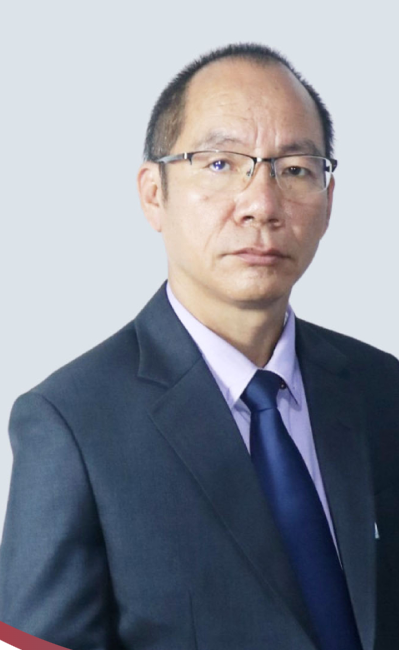
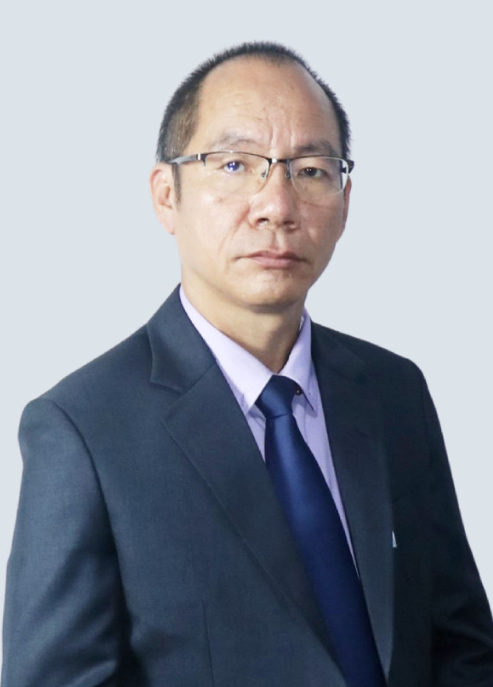
Update UI and Reponsiveness

diff --git a/Babylon-School-Frontend/Frontend_Project/src/styles/typography.css b/Babylon-School-Frontend/Frontend_Project/src/styles/typography.css
@@ -1,0 +1,161 @@
+/* Shared public-site type scale. Keep fonts and colours in their components;
+   use the same proportions on the homepage, listings and detail pages.
+   Size overrides are intentional: older page CSS and mobile rules use both
+   inline sizes and !important. Admin screens are outside .public-site. */
+.public-site {
+  --type-hero: clamp(1.75rem, 1.5rem + 0.75vw, 2rem);
+  --type-page: clamp(1.75rem, 1.5rem + 1vw, 2.25rem);
+  --type-section: clamp(1.5rem, 1.3rem + 0.8vw, 1.75rem);
+  --type-subheading: clamp(1.25rem, 1.125rem + 0.35vw, 1.375rem);
+  --type-card: clamp(1.125rem, 1.05rem + 0.3vw, 1.25rem);
+  --type-label: clamp(1rem, 0.95rem + 0.25vw, 1.125rem);
+  --type-body: 1rem;
+  --type-small: 0.875rem;
+  font-size: var(--type-body);
+  line-height: 1.7;
+}
+
+.public-site h1 {
+  font-size: var(--type-page) !important;
+  line-height: 1.2;
+  letter-spacing: -0.02em;
+}
+
+.public-site .hero h1 {
+  font-size: var(--type-hero) !important;
+  line-height: 1.25;
+}
+
+.public-site h2 {
+  font-size: var(--type-section) !important;
+  line-height: 1.3;
+  letter-spacing: -0.015em;
+}
+
+.public-site h3 {
+  font-size: var(--type-card) !important;
+  line-height: 1.4;
+}
+
+.public-site :is(h4, h5, h6) {
+  font-size: 1.125rem !important;
+  line-height: 1.4;
+}
+
+.public-site :is(h1, h2, h3, h4, h5, h6) {
+  text-wrap: balance;
+  overflow-wrap: anywhere;
+}
+
+/* Section labels in each of the existing heading treatments. */
+.public-site :is(
+  .eyebrow,
+  .section-badge,
+  .hero-badge,
+  .achievements-badge,
+  .facility-detail-eyebrow
+) {
+  font-size: var(--type-label) !important;
+  font-weight: 700;
+  line-height: 1.5;
+  letter-spacing: 0.08em;
+  margin-bottom: 0.75rem;
+  text-wrap: balance;
+}
+
+/* Content subheadings sit between a section title and its body copy. */
+.public-site :is(.article-copy, .rich-text) h2,
+.public-site :is(.blog-featured-title, .eca-entry-title, .testimonial-question) {
+  font-size: var(--type-subheading) !important;
+  line-height: 1.35;
+}
+
+.public-site :is(p, li),
+.public-site :is(
+  .rich-text,
+  .home-about-lead,
+  .home-about-desc,
+  .section-description,
+  .section-subtitle,
+  .hero-description,
+  .hero-subtitle,
+  .achievements-subtitle,
+  .leadership-text,
+  .about-hero-lead,
+  .admissions-lead,
+  .testimonial-message
+) {
+  font-size: var(--type-body);
+  line-height: 1.7;
+}
+
+.public-site :is(.pillar-info, .program-card-content, .blog-card-content) p {
+  font-size: var(--type-body);
+  line-height: 1.65;
+}
+
+.public-site :is(.leadership-body blockquote, .testimonial-message) {
+  font-size: clamp(1rem, 0.95rem + 0.25vw, 1.125rem);
+  line-height: 1.7;
+}
+
+/* Metadata remains secondary without using the tiny section-label sizes. */
+.public-site :is(
+  .content-cards .eyebrow,
+  .program-level,
+  .blog-card-category,
+  .blog-card-meta,
+  .blog-featured-meta,
+  .testimonial-role,
+  .leadership-meta span,
+  .page-banner a,
+  .page-banner .shell > span,
+  .badge-text,
+  .stat-label
+) {
+  font-size: var(--type-small) !important;
+  line-height: 1.5;
+  letter-spacing: 0.03em;
+}
+
+.public-site :is(.button, .text-link, .faq-grid summary, .about-faq summary) {
+  font-size: var(--type-body);
+  line-height: 1.5;
+}
+
+.public-site form :is(label, input, select, textarea, button) {
+  font-size: var(--type-body);
+}
+
+.public-site .admissions-fieldset legend {
+  font-size: var(--type-small);
+  line-height: 1.5;
+  letter-spacing: 0.06em;
+}
+
+/* Allow the larger, readable label to wrap without clipping the hero's
+   content or call-to-action buttons on narrow screens or at browser zoom. */
+.public-site .hero {
+  height: auto;
+  min-height: 580px;
+}
+
+.public-site .hero-content {
+  padding-bottom: 3rem;
+}
+
+.public-site .page-banner {
+  padding-block: 3rem;
+}
+
+@media (max-width: 768px) {
+  .public-site .hero {
+    min-height: 480px;
+  }
+}
+
+@media (max-width: 600px) {
+  .public-site .hero {
+    min-height: 460px;
+  }
+}

diff --git a/Babylon-School-Frontend/Frontend_Project/src/App.css b/Babylon-School-Frontend/Frontend_Project/src/App.css
@@ -23,7 +23,7 @@ img {
 
 html {
   scroll-behavior: smooth;
-  font-size: 16px;
+  font-size: 100%;
   overflow-x: hidden;
   max-width: 100vw;
 }
@@ -3618,10 +3618,6 @@ footer {
     width: 90% !important;
   }
 
-  html {
-    font-size: 15px;
-  }
-
   .header {
     height: 58px;
   }
@@ -5210,19 +5206,14 @@ article:has(.notice-title-link) {
   height: auto;
   max-height: 100px; /* Slightly reduced from 120px */
   width: auto;
-  filter: grayscale(100%);
-  -webkit-filter: grayscale(100%);
-  transition: filter 0.5s ease, -webkit-filter 0.5s ease, transform 0.3s ease;
-  opacity: 0.7;
+  transition: transform 0.3s ease;
+  opacity: 1;
   cursor: default;
   object-fit: contain;
 }
 
-/* On hover - show original colors */
+/* Keep the original colours visible; retain the subtle hover zoom. */
 .awards-image:hover {
-  filter: grayscale(0%);
-  -webkit-filter: grayscale(0%);
-  opacity: 1;
   transform: scale(1.05);
 }
 

diff --git a/Babylon-School-Frontend/Frontend_Project/src/components/home/AboutSection.jsx b/Babylon-School-Frontend/Frontend_Project/src/components/home/AboutSection.jsx
@@ -7,7 +7,7 @@ import { assetPath } from "../../data/content";
 export default function AboutSection() {
   const { settings } = useSite();
   const currentYear = new Date().getFullYear();
-  const yearsOfExcellence = currentYear >= 1996 ? currentYear - 1996 : 30;
+  const yearsOfExcellence = currentYear >= 1995 ? currentYear - 1995 : 30;
 
   return (
     <section className="home-about-section" id="about-overview">
@@ -25,7 +25,7 @@ export default function AboutSection() {
                 }}
               />
               <div className="home-about-badge">
-                <span className="badge-years">{yearsOfExcellence}+</span>
+                <span className="badge-years">{yearsOfExcellence}</span>
                 <span className="badge-text">
                   Years of Academic <br /> Excellence
                 </span>

diff --git a/Babylon-School-Frontend/Frontend_Project/src/pages/Team/TeamPage.jsx b/Babylon-School-Frontend/Frontend_Project/src/pages/Team/TeamPage.jsx
@@ -111,7 +111,7 @@ export default function TeamPage() {
   return (
     <>
       <PageBanner
-        eyebrow="OUR TEAM"
+        eyebrow="OUR MEMBERS"
         title="Meet the people behind Babylon."
         image="banner/inner_banner_2.jpg"
         pageKey="team"
@@ -123,7 +123,7 @@ export default function TeamPage() {
           <div className="about-main-content">
             <section className="listing-page team-page-section">
               <div className="center-heading">
-                <p className="eyebrow">OUR TEAM</p>
+                <p className="eyebrow">OUR MEMBERS</p>
                 <h2>Guiding every learner forward.</h2>
               </div>
 

diff --git a/Babylon-School-Frontend/Frontend_Project/src/routes/PublicRoutes.jsx b/Babylon-School-Frontend/Frontend_Project/src/routes/PublicRoutes.jsx
@@ -36,6 +36,7 @@ import ExtraCurricularPage from "../pages/ECA/ExtraCurricularPage";
 // import SignupPage from '../pages/Auth/SignupPage';
 // import DashboardPage from '../pages/Dashboard/DashboardPage';
 import NotFoundPage from "../pages/NotFound/NotFoundPage";
+import "../styles/typography.css";
 
 function PublicLayout({ children }) {
   const location = useLocation();
@@ -44,7 +45,7 @@ function PublicLayout({ children }) {
   }, [location.pathname]);
 
   return (
-    <main>
+    <main className="public-site">
       <Header />
       {children}
       <Footer />

diff --git a/Babylon-School-Frontend/Frontend_Project/src/components/common/Footer.jsx b/Babylon-School-Frontend/Frontend_Project/src/components/common/Footer.jsx
@@ -57,7 +57,7 @@ export default function Footer() {
             <Link to="/notices">Notices</Link>
             <Link to="/blog">News &amp; Blog</Link>
             <Link to="/events">Events</Link>
-            <Link to="/team">Our Team</Link>
+            <Link to="/team">Our Members</Link>
             <Link to="/become-a-teacher">Careers</Link>
             <Link to="/achievements">Achievements</Link>
             <Link to="/faq">FAQ</Link>

diff --git a/Babylon-School-Frontend/Frontend_Project/src/pages/About/AboutFaculty.jsx b/Babylon-School-Frontend/Frontend_Project/src/pages/About/AboutFaculty.jsx
@@ -15,7 +15,7 @@ export default function AboutFaculty() {
   return (
     <section className="about-faculty shell">
       <div className="center-heading">
-        <p className="eyebrow">OUR TEAM</p>
+        <p className="eyebrow">OUR MEMBERS</p>
         <h2>Meet our educators</h2>
         <p>
           Passionate mentors who guide students with knowledge, care and

diff --git a/Babylon-School-Frontend/Frontend_Project/src/components/common/Header.jsx b/Babylon-School-Frontend/Frontend_Project/src/components/common/Header.jsx
@@ -10,7 +10,7 @@ const primaryNav = [
     link: "/about",
     children: [
       { label: "About Babylon", link: "/about" },
-      { label: "Our Team", link: "/team" },
+      { label: " Members", link: "/team" },
       { label: "Achievements", link: "/achievements" },
       { label: "Facilities", link: "/facilities" },
       { label: "FAQ", link: "/faq" },

diff --git a/Babylon-School-Frontend/Frontend_Project/src/admin/AdminPage.jsx b/Babylon-School-Frontend/Frontend_Project/src/admin/AdminPage.jsx
@@ -1166,8 +1166,8 @@ const PAGE_BANNER_DEFINITIONS = [
   },
   {
     key: "team",
-    title: "Our Team",
-    eyebrow: "OUR TEAM",
+    title: "Our Members",
+    eyebrow: "OUR MEMBERS",
     defaultImg: "banner/inner_banner_2.jpg",
     heading: "Meet the people behind Babylon.",
     description: "Header background banner for Our Team page",

diff --git a/Babylon-School-Frontend/Frontend_Project/src/components/home/StatisticsSection.jsx b/Babylon-School-Frontend/Frontend_Project/src/components/home/StatisticsSection.jsx
@@ -67,7 +67,7 @@ export default function LeadershipMessageSection() {
           <p className="eyebrow">Leadership</p>
 
           <h2>
-            Message from the <em>{message.title}</em>
+            Message from the {message.title}
           </h2>
 
           <blockquote>{message.quote}</blockquote>

diff --git a/Babylon-School-Frontend/Frontend_Project/src/components/shared/AboutSidebar.jsx b/Babylon-School-Frontend/Frontend_Project/src/components/shared/AboutSidebar.jsx
@@ -40,7 +40,7 @@ export default function AboutSidebar({ currentPage = "about" }) {
           to="/team"
           className={`sidebar-link ${activePage === "team" ? "active" : ""}`}
         >
-          Our Team
+          Members
         </Link>
         <Link
           to="/achievements"

diff --git a/Babylon-School-Frontend/Frontend_Project/src/admin/resourceConfig.js b/Babylon-School-Frontend/Frontend_Project/src/admin/resourceConfig.js
@@ -117,7 +117,7 @@ export const resources = {
   },
 
   faculty: {
-    label: "Our Team",
+    label: "Our Members",
     endpoint: "/faculty",
     image: true,
     fields: [
